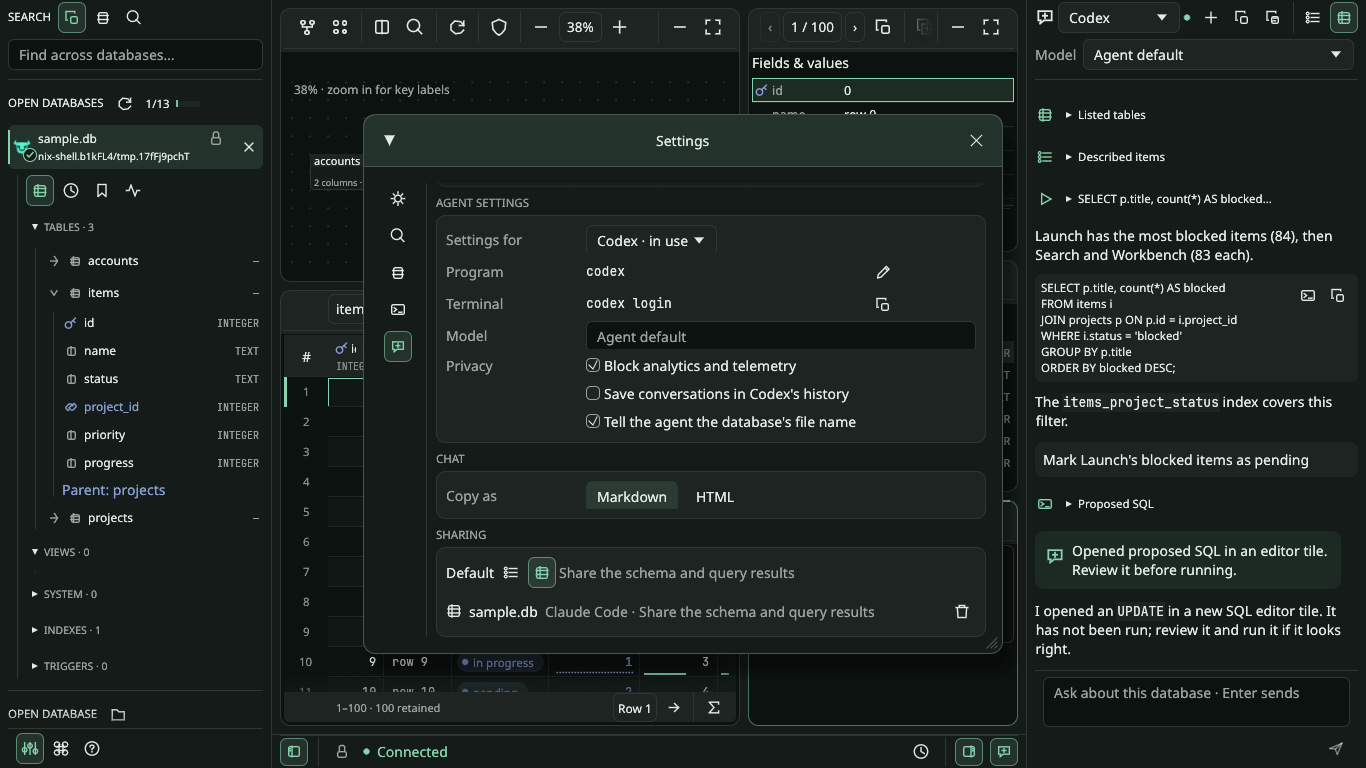
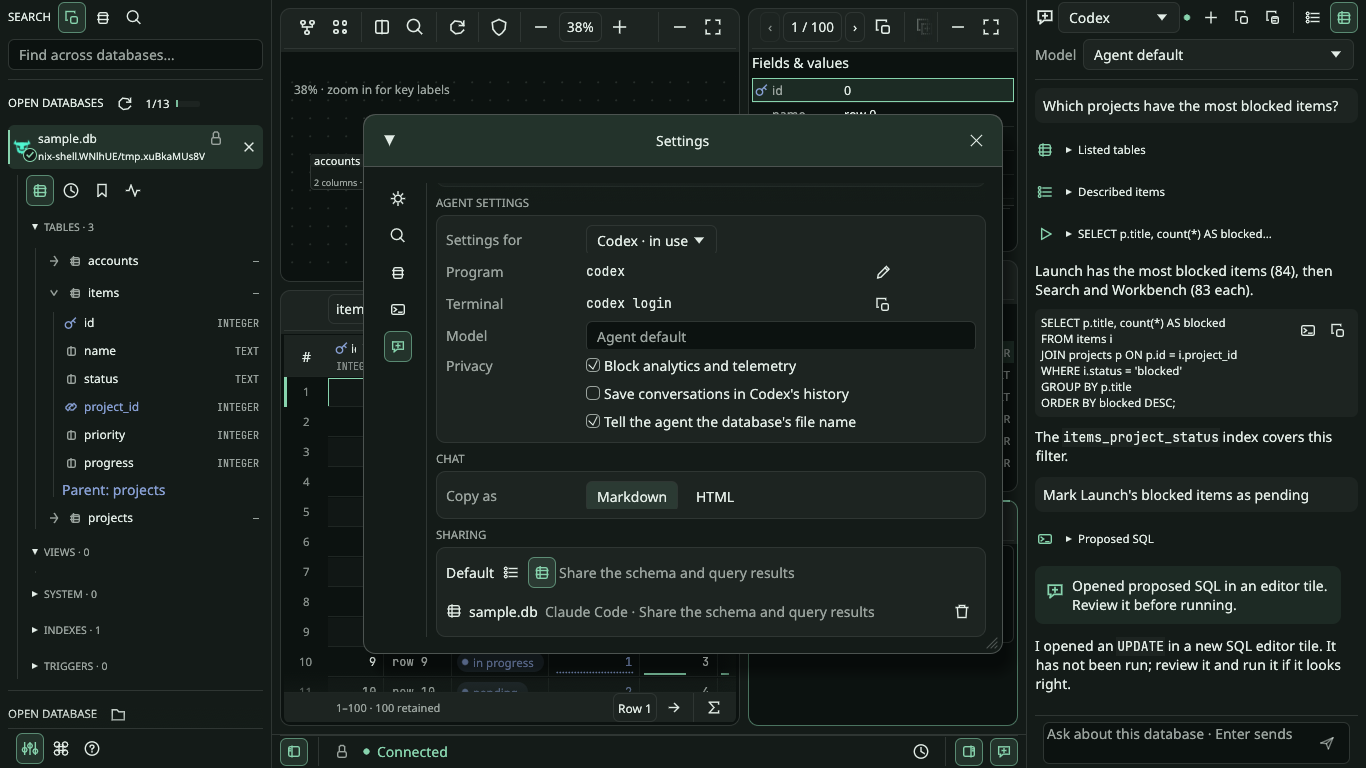
Put a larger red Stop button inside the chat box
While the agent works, Stop is a 32px red button in the input's corner;
otherwise Send takes the same spot, and the empty row under the box is gone.
The input reserves a right margin so text never runs under the button.

diff --git a/crates/tursobench-ui/src/app/assistant.rs b/crates/tursobench-ui/src/app/assistant.rs
@@ -771,12 +771,69 @@ impl App {
             && ui.input_mut(|i| i.consume_key(egui::Modifiers::NONE, egui::Key::Enter));
         let busy = self.database.assistant.busy;
         let account_pending = self.assistant_account_pending();
+        // Send, or Stop while the agent works, sits inside the box's corner;
+        // the right margin keeps text from running under it.
+        const BUTTON: f32 = 32.0;
         let edit = egui::TextEdit::multiline(&mut self.database.assistant.draft)
             .id(id)
             .desired_rows(2)
             .desired_width(f32::INFINITY)
+            .margin(egui::Margin {
+                left: 4,
+                right: (BUTTON + 10.0) as i8,
+                top: 2,
+                bottom: 2,
+            })
             .hint_text("Ask about this database · Enter sends");
         let response = ui.add(edit);
+        let corner = egui::Rect::from_min_size(
+            response.rect.right_bottom() - egui::vec2(BUTTON + 5.0, BUTTON + 5.0),
+            egui::vec2(BUTTON, BUTTON),
+        );
+        if busy {
+            let stop = ui.interact(corner, id.with("stop"), egui::Sense::click());
+            let red = ui.visuals().error_fg_color;
+            let fill = if stop.hovered() {
+                red
+            } else {
+                red.gamma_multiply(0.85)
+            };
+            ui.painter().rect_filled(corner, 8.0, fill);
+            icons::paint(
+                ui.painter(),
+                egui::Rect::from_center_size(corner.center(), egui::vec2(18.0, 18.0)),
+                Icon::Stop,
+                egui::Color32::WHITE,
+            );
+            stop.widget_info(|| egui::WidgetInfo::labeled(egui::Role::Button, true, "Stop"));
+            if stop
+                .on_hover_text("Stop the agent's turn")
+                .on_hover_cursor(egui::CursorIcon::PointingHand)
+                .clicked()
+                && let Some(running) = &self.database.assistant.running
+            {
+                running.agent.cancel();
+            }
+        } else {
+            let empty = self.database.assistant.draft.trim().is_empty();
+            let clicked = ui
+                .scope_builder(
+                    egui::UiBuilder::new().max_rect(corner).layout(
+                        egui::Layout::centered_and_justified(egui::Direction::LeftToRight),
+                    ),
+                    |ui| {
+                        ui.add_enabled_ui(!empty && !account_pending, |ui| {
+                            icons::control(ui, Icon::Send, "Send", "Enter", false, false)
+                        })
+                        .inner
+                        .clicked()
+                    },
+                )
+                .inner;
+            if clicked {
+                self.send_assistant(ui.ctx());
+            }
+        }
         response.widget_info(|| {
             egui::WidgetInfo::labeled(
                 egui::Role::MultilineTextInput,
@@ -787,29 +844,6 @@ impl App {
         if std::mem::take(&mut self.database.assistant.focus) {
             response.request_focus();
         }
-        ui.horizontal(|ui| {
-            ui.spacing_mut().item_spacing.x = 3.0;
-            ui.with_layout(egui::Layout::right_to_left(egui::Align::Center), |ui| {
-                if busy {
-                    if icons::control(ui, Icon::Stop, "Stop", "", false, false).clicked()
-                        && let Some(running) = &self.database.assistant.running
-                    {
-                        running.agent.cancel();
-                    }
-                } else {
-                    let empty = self.database.assistant.draft.trim().is_empty();
-                    if ui
-                        .add_enabled_ui(!empty && !account_pending, |ui| {
-                            icons::control(ui, Icon::Send, "Send", "Enter", false, false)
-                        })
-                        .inner
-                        .clicked()
-                    {
-                        self.send_assistant(ui.ctx());
-                    }
-                }
-            });
-        });
         if account_pending {
             ui.small("Finish or cancel the account change in Settings to send a message.");
         }
